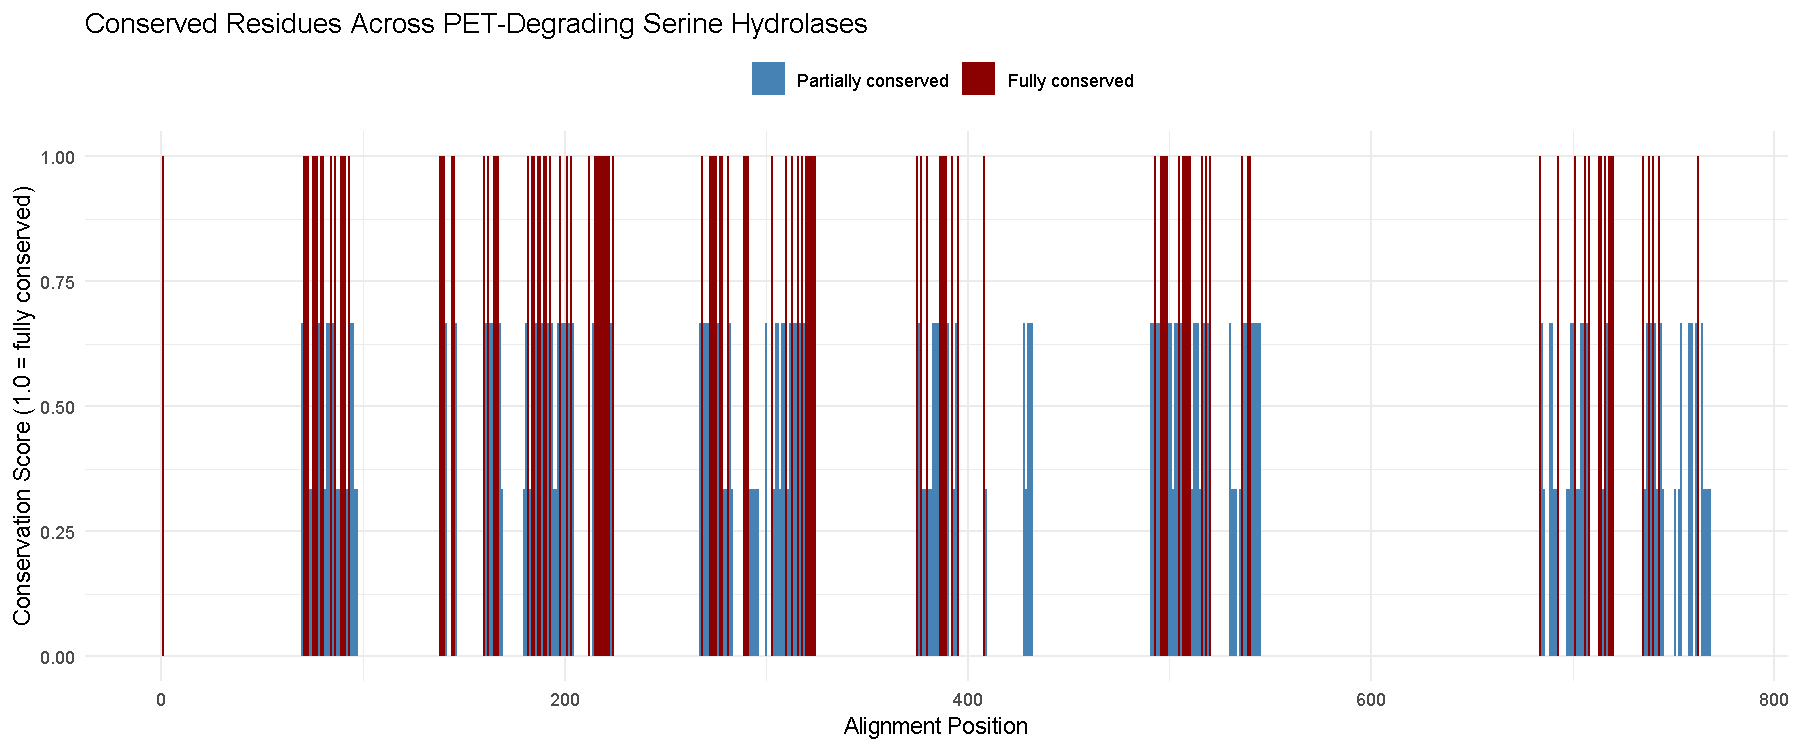
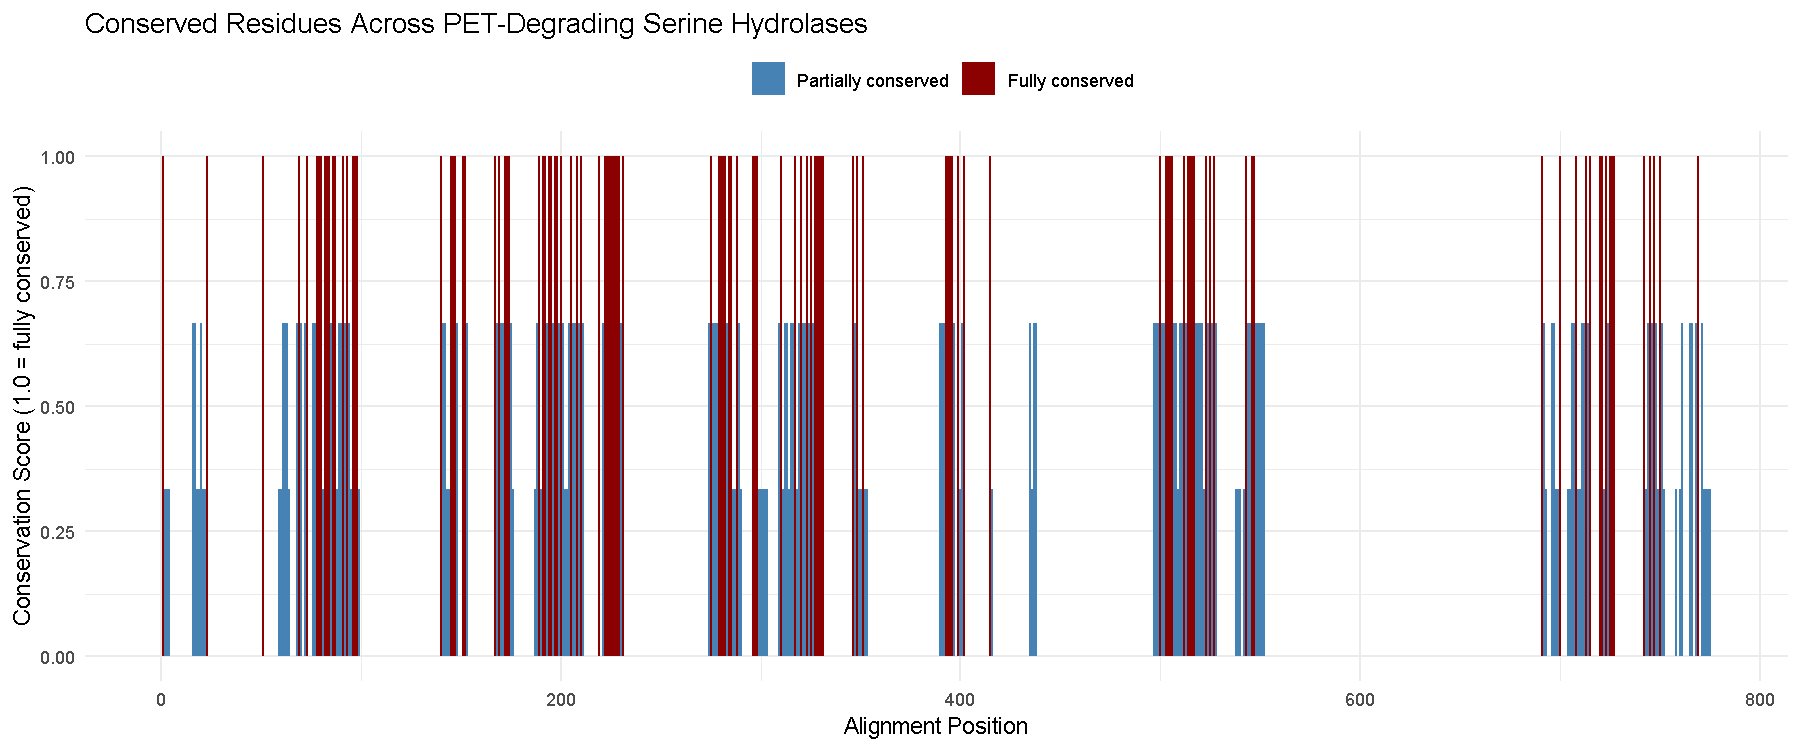
final README with correct numbers and findings

diff --git a/scripts/fetch_sequences.py b/scripts/fetch_sequences.py
@@ -9,7 +9,7 @@ Entrez.email = "[email redacted]"
 enzymes = {
     "PETase_Ideonella_sakaiensis": "GAP38373.1",
     "MHETase_Ideonella_sakaiensis": "GAP38911.1",
-    "Cutinase_Thermobifida_fusca": "ADV92528.1",
+    "Cutinase_Thermobifida_fusca": "AAZ54921.1",
     "Lipase_Thermonospora_curvata": "CDN67545.1",
     "alkB_Pseudomonas_oleovorans": "CAB51047.1"
 }